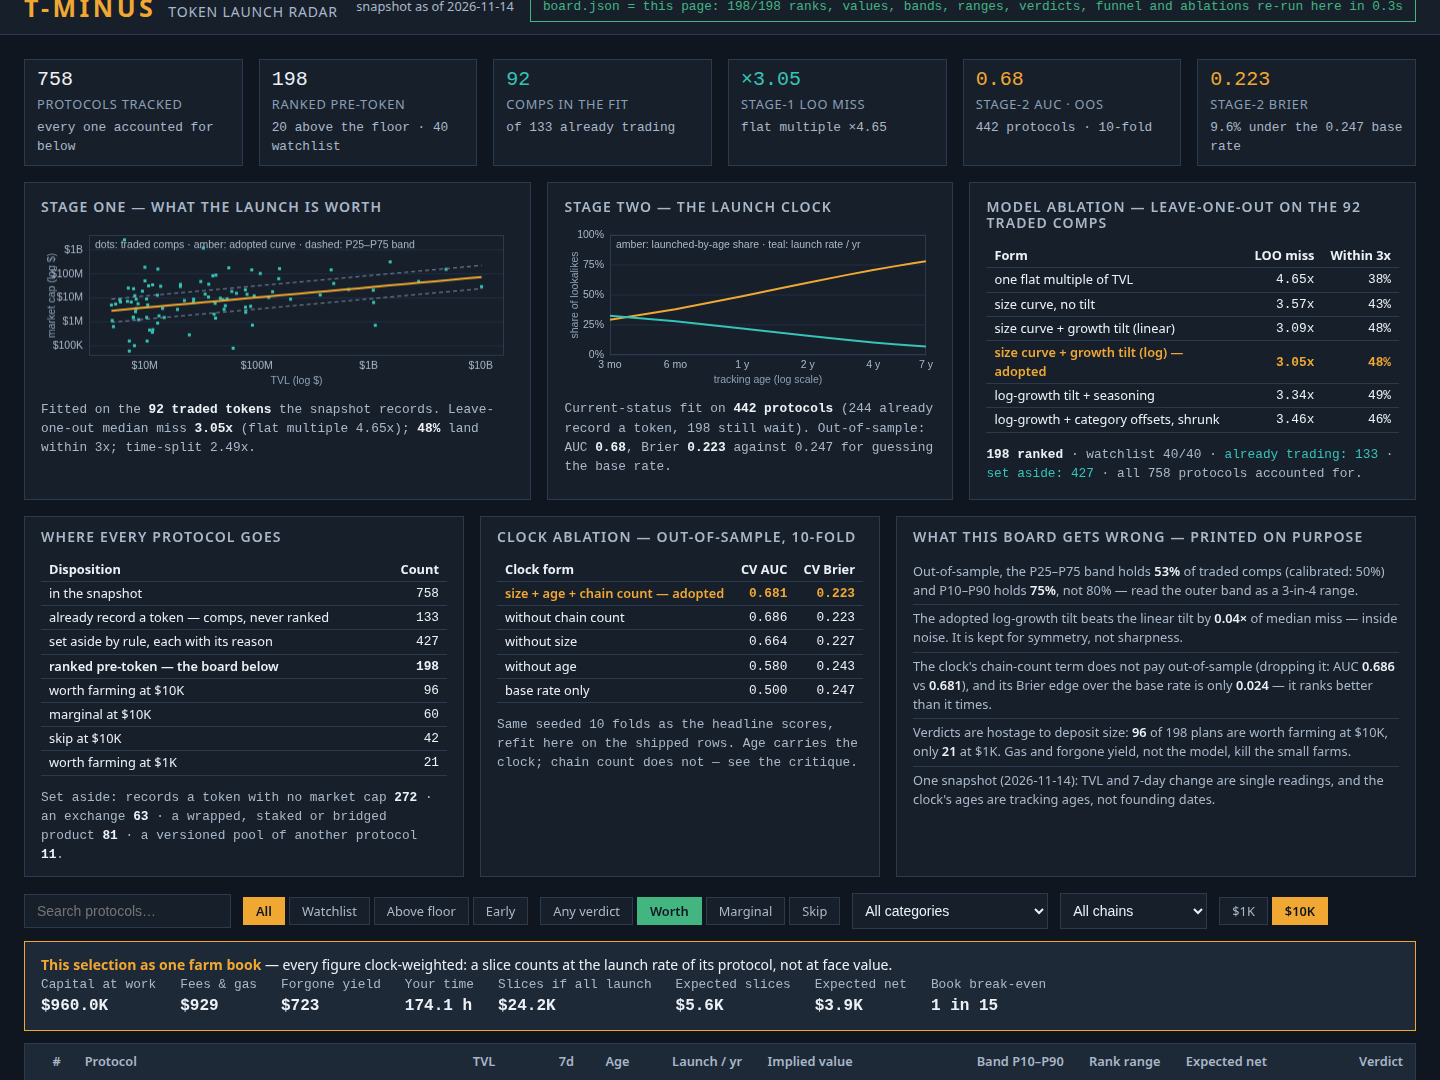
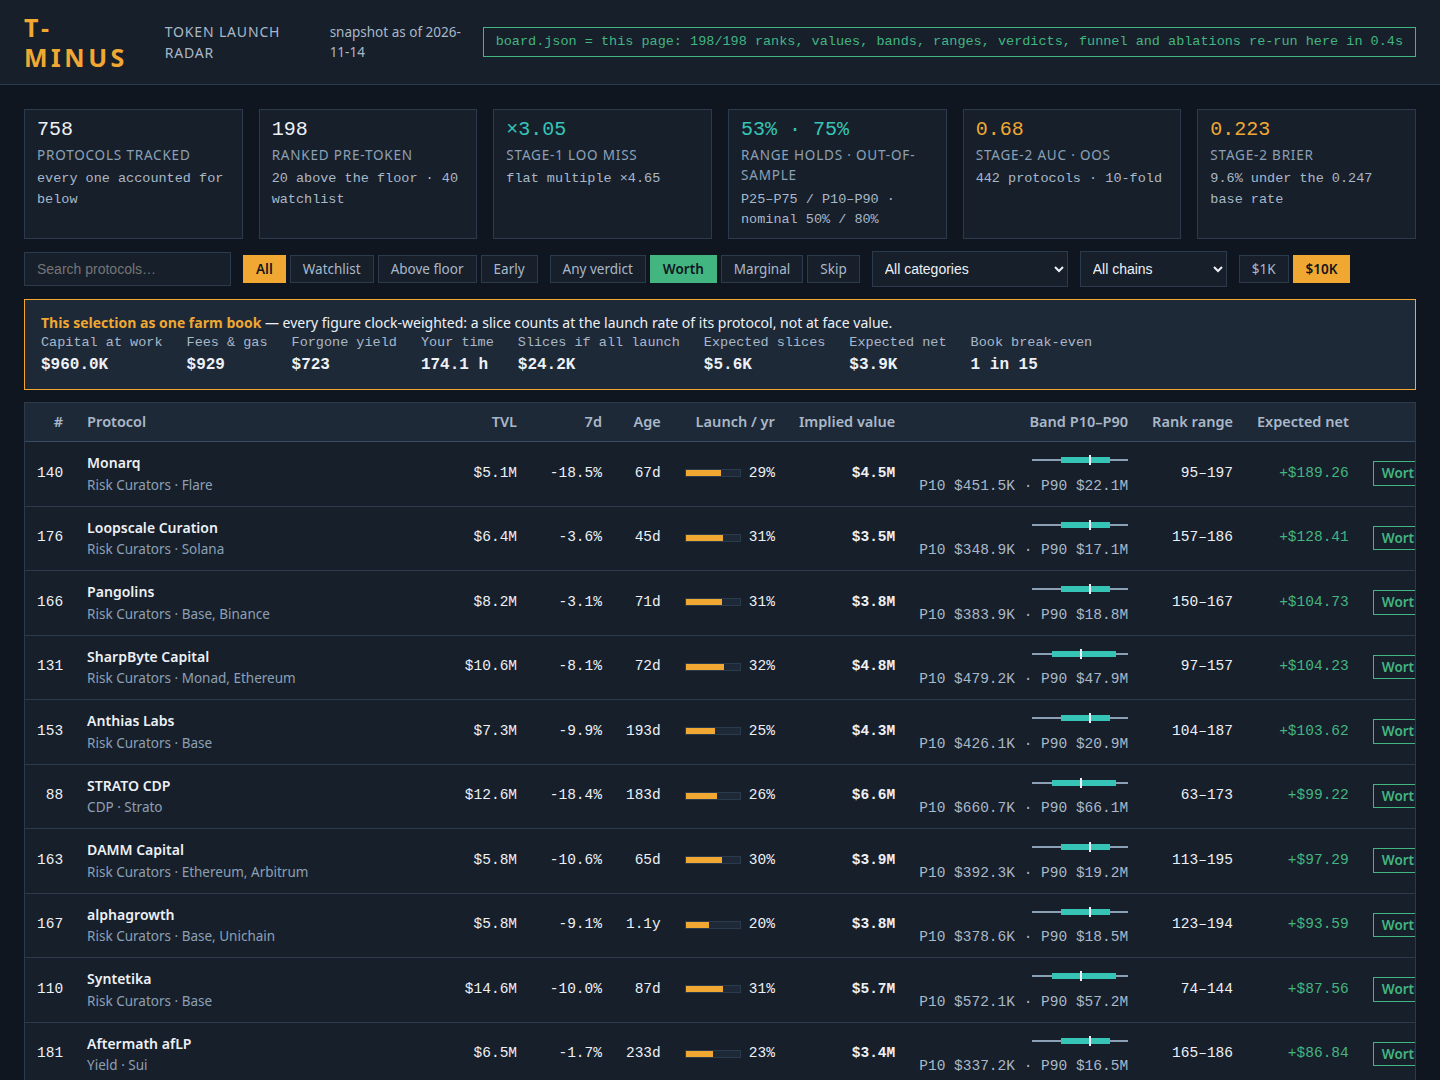
Layout round: board first on screen one, calibration holds in the stat strip, plan leads the detail view
Evidence panels (charts, funnel, ablations, critique) move below the ranked
table; the filtered view now shows rows under the farm-book bar. Stat strip
trades the comps tile for the band hold rates (53% / 75%, from evidence()).
Type: board 14.5px, small text 12.8 -> 13.5px, mono for numbers only,
chart labels 12px. Models untouched: board.json/data.js md5 unchanged;
dossier 941,468 B; gate ALL PASS; evidence audit 31/31.

diff --git a/dashboard/app.js b/dashboard/app.js
@@ -91,8 +91,8 @@ function renderEvidence() {
   $('statStrip').innerHTML =
     stat(c.protocols, 'protocols tracked', 'every one accounted for below') +
     stat(c.ranked, 'ranked pre-token', `${c.above_floor} above the floor · ${c.watchlist} watchlist`) +
-    stat(v.comps, 'comps in the fit', `of ${c.traded} already trading`, 'teal') +
     stat('×' + v.looMedianMiss.toFixed(2), 'stage-1 LOO miss', `flat multiple ×${v.flatMedianMiss.toFixed(2)}`, 'teal') +
+    stat(Math.round(ev.covMid * 100) + '% · ' + Math.round(ev.covWide * 100) + '%', 'range holds · out-of-sample', 'P25–P75 / P10–P90 · nominal 50% / 80%', 'teal') +
     stat(ck.cv_auc.toFixed(2), 'stage-2 AUC · OOS', `${ck.population} protocols · 10-fold`, 'amber') +
     stat(ck.cv_brier.toFixed(3), 'stage-2 Brier', `${((ck.base_brier - ck.cv_brier) / ck.base_brier * 100).toFixed(1)}% under the ${ck.base_brier.toFixed(3)} base rate`, 'amber');
   const fr = (label, n, cls = '') => `<tr class="${cls}"><td>${label}</td><td>${n}</td></tr>`;
@@ -214,7 +214,7 @@ function drawFit() {
   // so the plot reads on its own — market cap against TVL, in dollars.
   const L = 48, R = 10, Tp = 8, B = 32, pw = W - L - R, ph = H - Tp - B;
   const X = (v) => L + (v - x0) / (x1 - x0) * pw, Y = (v) => Tp + ph - (v - y0) / (y1 - y0) * ph;
-  g.font = '10.5px sans-serif';
+  g.font = '12px sans-serif';
   g.strokeStyle = '#232F42'; g.fillStyle = '#A9B8C8'; g.textAlign = 'right'; g.textBaseline = 'middle';
   for (let d = Math.ceil(y0); d <= Math.floor(y1); d++) { const y = Y(d); g.beginPath(); g.moveTo(L, y); g.lineTo(W - R, y); g.stroke(); g.fillText(fmtDec(d), L - 6, y); }
   g.textAlign = 'center'; g.textBaseline = 'top';
@@ -235,7 +235,7 @@ function drawClock() {
   // axes first: percent ticks up the side, labelled ages along the log time axis.
   const L = 46, R = 10, Tp = 8, B = 32, pw = W - L - R, ph = H - Tp - B;
   const X = (a) => L + Math.log10(a / 90) / Math.log10(2555 / 90) * pw, Y = (v) => Tp + ph - v * ph;
-  g.font = '10.5px sans-serif';
+  g.font = '12px sans-serif';
   g.strokeStyle = '#232F42'; g.fillStyle = '#A9B8C8'; g.textAlign = 'right'; g.textBaseline = 'middle';
   for (const t of [0, .25, .5, .75, 1]) { const y = Y(t); g.beginPath(); g.moveTo(L, y); g.lineTo(W - R, y); g.stroke(); g.fillText(Math.round(t * 100) + '%', L - 6, y); }
   g.textAlign = 'center'; g.textBaseline = 'top';
@@ -272,6 +272,8 @@ function renderDetail(slug) {
     <a class="backlink" href="#/">← Back to the board</a>
     <div class="d-head"><div><h1>${esc(r.name)}</h1><div class="sub">${esc(r.category ?? 'Uncategorised')} · ${esc(r.chains.join(', ') || 'no chain listed')} · TVL ${fmt$(r.tvl_usd)} · 7d ${r.change_7d === null ? '—' : (r.change_7d >= 0 ? '+' : '') + r.change_7d.toFixed(1) + '%'} · rank #${r.rank} (range ${r.rank_range[0]}–${r.rank_range[1]})${r.watchlist ? ' · on the watchlist' : ''}</div></div>
     <div class="d-big"><div><div class="cap">implied value if it launched at this record</div><div class="v">${fmt$(r.implied_value_usd)}</div></div><div><div class="cap">launch rate, next 12 months</div><div class="h">${Math.round(r.clock.hazard12 * 100)}% / yr</div></div></div></div>
+    <div class="panel plan-panel"><h2>The plan — ${r.steps.length} steps, ${r.econ['10000'].weeks} weeks at the $10,000 size</h2><ol class="steps">
+      ${r.steps.map(s => `<li><span class="when">${esc(s.when)}</span><span class="txt">${esc(s.text)}</span><span class="ct">${esc(s.cost)}<br>${esc(s.time)}</span></li>`).join('')}</ol></div>
     <div class="d-grid">
       <div class="panel"><h2>The value build</h2><div class="factors">
         ${factor('TVL', fmt$(r.tvl_usd))}<span class="factor-arrow">→</span>${factor('Size curve', fmt$(f.curve_value_usd))}<span class="factor-arrow">×</span>${factor('Growth tilt', f.growth_multiplier.toFixed(2) + 'x')}${f.family_multiplier !== 1 ? `<span class="factor-arrow">×</span>${factor('Category', f.family_multiplier.toFixed(2) + 'x')}` : ''}${f.season_multiplier !== 1 ? `<span class="factor-arrow">×</span>${factor('Seasoning', f.season_multiplier.toFixed(2) + 'x')}` : ''}<span class="factor-arrow">=</span>${factor('Implied value', fmt$(r.implied_value_usd))}
@@ -285,8 +287,6 @@ function renderDetail(slug) {
       <p class="stats">The clock is fitted on ${T.clock.population} comparable protocols in this snapshot (${T.clock.launched} launched, ${T.clock.waiting} waiting), cross-validated AUC ${T.clock.cv_auc.toFixed(2)}. It prices the farm below; it does not move the implied value, which is what the token would be worth if the launch happened at today's record.</p>
       <h2 style="margin-top:24px">The farm, priced both ways</h2><table class="data"><tr><th>Deposit</th><th>Slice</th><th>Expected slice</th><th>Costs</th><th>Forgone</th><th>Expected net</th><th>Per hour</th><th>Break-even</th><th>Verdict</th></tr>${depRow(1000)}${depRow(10000)}</table>
       <p class="stats">Slice assumes a ${(T.farm.airdrop_share * 100).toFixed(1)}% airdrop of the implied value, split pro-rata. Expected slice = slice x the ${Math.round(r.clock.hazard12 * 100)}% launch rate. Break-even is the launch rate at which the plan pays for itself.</p></div>
-      <div class="panel" style="grid-column:1/-1"><h2>The plan — ${r.steps.length} steps, ${r.econ['10000'].weeks} weeks at the $10,000 size</h2><ol class="steps">
-      ${r.steps.map(s => `<li><span class="when">${esc(s.when)}</span><span class="txt">${esc(s.text)}</span><span class="ct">${esc(s.cost)}<br>${esc(s.time)}</span></li>`).join('')}</ol></div>
       <div class="panel" style="grid-column:1/-1"><h2>The snapshot record</h2><dl class="kv">
         <dt>slug</dt><dd>${esc(r.slug)}</dd><dt>category</dt><dd>${esc(r.category ?? 'null')}</dd><dt>chains</dt><dd>${esc(r.chains.join(', ') || '—')}</dd>
         <dt>TVL</dt><dd>$${r.tvl_usd.toLocaleString()}</dd><dt>7-day change</dt><dd>${r.change_7d === null ? 'null' : r.change_7d + '%'}</dd>

diff --git a/dashboard/app.css b/dashboard/app.css
@@ -8,7 +8,7 @@
   --amber:#F0A832; --teal:#35C4B5;
   --go:#43B581; --warn:#E8B33D; --skip:#E86A54;
   --s1:4px; --s2:8px; --s3:12px; --s4:16px; --s5:24px; --s6:32px; --s7:48px; --s8:64px;
-  --fs-xs:12.8px; --fs-s:14px; --fs-m:16px; --fs-l:20px; --fs-xl:25px; --fs-xxl:31px;
+  --fs-xs:13.5px; --fs-s:14px; --fs-m:16px; --fs-l:20px; --fs-xl:25px; --fs-xxl:31px;
   --sans:"Avenir Next","Segoe UI",system-ui,-apple-system,"Helvetica Neue",Arial,sans-serif;
   --mono:ui-monospace,"SF Mono","Cascadia Mono",Menlo,Consolas,"Liberation Mono",monospace;
 }
@@ -20,7 +20,7 @@ a{color:var(--teal);text-decoration:none}
 a:hover{text-decoration:underline}
 button{font-family:inherit;cursor:pointer}
 :focus-visible{outline:2px solid var(--amber);outline-offset:1px}
-.num,.board td,.abl td,.stats,.kv dd,table.data td{font-family:var(--mono);font-variant-numeric:tabular-nums}
+.num,.board td:not(.left),.abl td,.stats,.kv dd,table.data td{font-family:var(--mono);font-variant-numeric:tabular-nums}
 
 /* top bar */
 .topbar{display:flex;justify-content:space-between;align-items:center;padding:var(--s3) var(--s5);border-bottom:1px solid var(--line);background:var(--panel)}
@@ -52,7 +52,7 @@ main{padding:var(--s5);max-width:1560px;margin:0 auto}
 .abl tr.sum td{color:var(--ink);font-weight:600}
 
 /* stat strip + evidence row: the first screen carries the proof, not just charts */
-.statstrip{display:grid;grid-template-columns:repeat(6,1fr);gap:var(--s4);margin-bottom:var(--s4)}
+.statstrip{display:grid;grid-template-columns:repeat(6,1fr);gap:var(--s4);margin-bottom:var(--s3)}
 .stat{border:1px solid var(--line);background:var(--panel);padding:var(--s2) var(--s3)}
 .stat .v{font-family:var(--mono);font-size:var(--fs-l);line-height:1.15}
 .stat .v.teal{color:var(--teal)} .stat .v.amber{color:var(--amber)}
@@ -84,7 +84,7 @@ main{padding:var(--s5);max-width:1560px;margin:0 auto}
 
 /* board table */
 .tablewrap{border:1px solid var(--line);background:var(--panel);overflow-x:auto}
-table.board{width:100%;border-collapse:collapse;font-size:var(--fs-xs)}
+table.board{width:100%;border-collapse:collapse;font-size:14.5px}
 .board th{position:sticky;top:0;background:var(--panel2);color:var(--ink2);text-align:right;font-weight:600;padding:var(--s2) var(--s3);border-bottom:1px solid var(--line2);white-space:nowrap;cursor:pointer;font-family:var(--sans)}
 .board th.left,.board td.left{text-align:left}
 .board td{padding:var(--s2) var(--s3);border-bottom:1px solid var(--line);text-align:right;white-space:nowrap;vertical-align:middle}
@@ -140,6 +140,9 @@ table.data td:first-child,table.data th:first-child{text-align:left}
 .kv{display:grid;grid-template-columns:auto 1fr;gap:var(--s1) var(--s4);font-size:var(--fs-xs)}
 .kv dt{color:var(--ink3)} .kv dd{margin:0;text-align:right}
 .steps{list-style:none;margin:0;padding:0}
+.plan-panel{margin-bottom:var(--s4)}
+.plan-panel h2{font-size:var(--fs-s);text-transform:uppercase;letter-spacing:.08em;color:var(--ink2);margin-bottom:var(--s3)}
+.plan-panel .steps li{padding:10px 0}
 .steps li{display:grid;grid-template-columns:86px 1fr auto;gap:var(--s3);padding:var(--s3) 0;border-bottom:1px solid var(--line)}
 .steps .when{color:var(--amber);font-weight:600;font-size:var(--fs-xs);text-transform:uppercase;letter-spacing:.05em}
 .steps .txt{color:var(--ink)}

diff --git a/dashboard/index.html b/dashboard/index.html
@@ -16,6 +16,27 @@
   <div id="fatal" class="fatal" hidden></div>
   <section id="view-board" hidden>
     <section class="statstrip" id="statStrip" aria-label="Headline numbers"></section>
+    <nav class="toolbar" aria-label="Board controls">
+      <input id="q" type="search" placeholder="Search protocols…" aria-label="Search protocols">
+      <div class="chips" id="segChips" role="group" aria-label="Segment"></div>
+      <div class="chips" id="verChips" role="group" aria-label="Verdict"></div>
+      <select id="famSel" aria-label="Category"></select>
+      <select id="chainSel" aria-label="Chain"></select>
+      <div class="chips" id="depChips" role="group" aria-label="Deposit size"></div>
+    </nav>
+    <div id="farmbook" class="farmbook" hidden></div>
+    <div class="tablewrap">
+      <table class="board" id="boardTable">
+        <thead><tr>
+          <th data-k="rank">#</th><th data-k="name" class="left">Protocol</th><th data-k="tvl">TVL</th>
+          <th data-k="chg">7d</th><th data-k="age">Age</th><th data-k="hz">Launch / yr</th>
+          <th data-k="val">Implied value</th><th>Band P10–P90</th><th data-k="range">Rank range</th>
+          <th data-k="expnet">Expected net</th><th data-k="verdict">Verdict</th>
+        </tr></thead>
+        <tbody id="boardBody"></tbody>
+      </table>
+      <div id="empty" class="empty" hidden>No protocol matches these filters. <button id="resetBtn" type="button">Reset the filters</button></div>
+    </div>
     <div class="hero">
       <div class="panel panel-fit">
         <h2>Stage one — what the launch is worth</h2>
@@ -48,27 +69,6 @@
         <h2>What this board gets wrong — printed on purpose</h2>
         <ul id="critList" class="crit"></ul>
       </div>
-    </div>
-    <nav class="toolbar" aria-label="Board controls">
-      <input id="q" type="search" placeholder="Search protocols…" aria-label="Search protocols">
-      <div class="chips" id="segChips" role="group" aria-label="Segment"></div>
-      <div class="chips" id="verChips" role="group" aria-label="Verdict"></div>
-      <select id="famSel" aria-label="Category"></select>
-      <select id="chainSel" aria-label="Chain"></select>
-      <div class="chips" id="depChips" role="group" aria-label="Deposit size"></div>
-    </nav>
-    <div id="farmbook" class="farmbook" hidden></div>
-    <div class="tablewrap">
-      <table class="board" id="boardTable">
-        <thead><tr>
-          <th data-k="rank">#</th><th data-k="name" class="left">Protocol</th><th data-k="tvl">TVL</th>
-          <th data-k="chg">7d</th><th data-k="age">Age</th><th data-k="hz">Launch / yr</th>
-          <th data-k="val">Implied value</th><th>Band P10–P90</th><th data-k="range">Rank range</th>
-          <th data-k="expnet">Expected net</th><th data-k="verdict">Verdict</th>
-        </tr></thead>
-        <tbody id="boardBody"></tbody>
-      </table>
-      <div id="empty" class="empty" hidden>No protocol matches these filters. <button id="resetBtn" type="button">Reset the filters</button></div>
     </div>
     <section class="method panel">
       <h2>How T-Minus works</h2>
